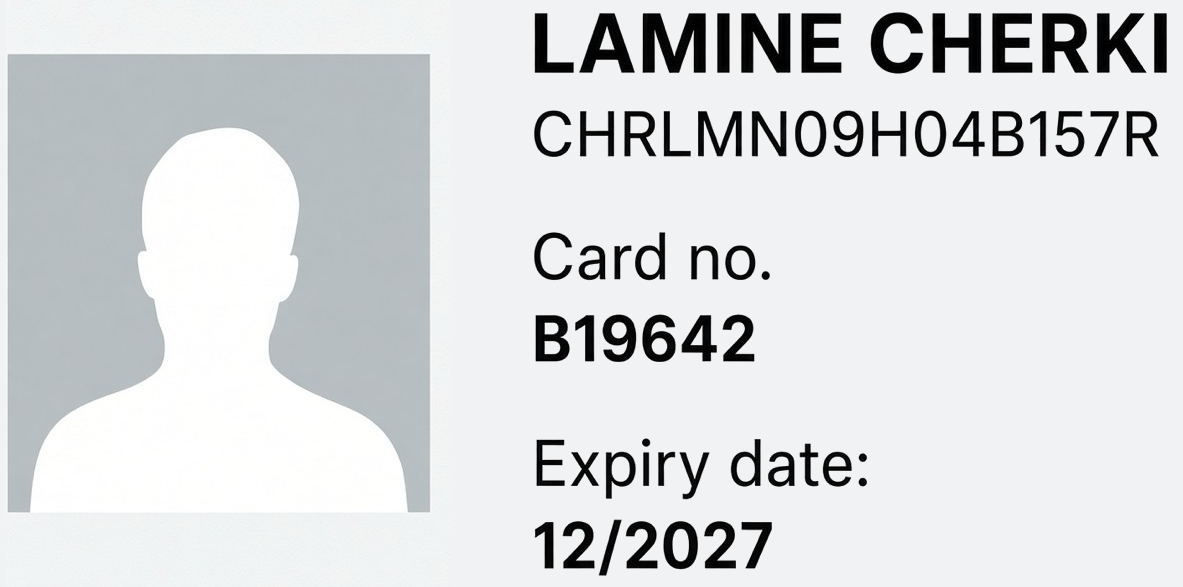
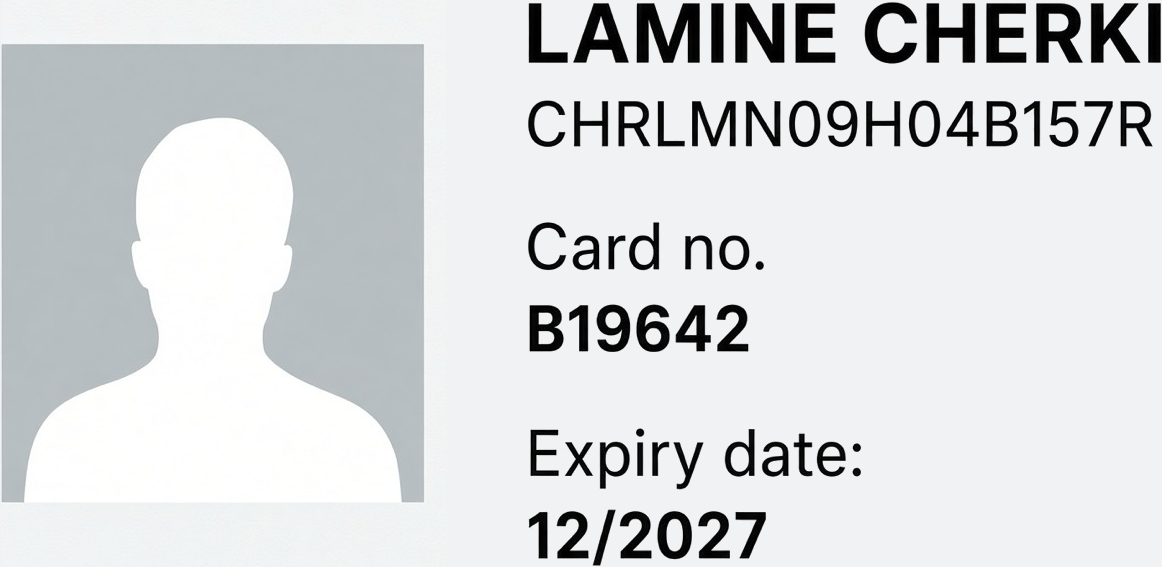
Show the Card info screenshot at native compact size
Keep the provided crop, scaled down so the photo matches
the original accordion instead of filling the card.

diff --git a/src/components/ticket-view.tsx b/src/components/ticket-view.tsx
@@ -1,7 +1,6 @@
 import { useState } from "react";
 import { ArrivaLogo } from "@/components/arriva-logo";
 import { AppHeader } from "@/components/app-header";
-import { IdSilhouette } from "@/components/id-silhouette";
 import { PhoneFrame } from "@/components/phone-frame";
 import { QrBlock } from "@/components/qr-block";
 import { QrOverlay } from "@/components/qr-overlay";
@@ -9,7 +8,7 @@ import { ScallopWave } from "@/components/scallop-wave";
 import { SectionAccordion } from "@/components/section-accordion";
 import { CardInfoIcon, PlaneIcon, ValidationIcon } from "@/components/ticket-icons";
 import { TransferSheet } from "@/components/transfer-sheet";
-import { productTitleSrc } from "@/lib/img";
+import { productTitleSrc, cardHolderSrc } from "@/lib/img";
 import { TICKET } from "@/lib/ticket-data";
 
 export function TicketView() {
@@ -52,29 +51,12 @@ export function TicketView() {
               onToggle={() => setCardOpen((v) => !v)}
               icon={<CardInfoIcon className="size-[18px]" />}
             >
-              <div className="flex items-start gap-3 pb-8 pt-1">
-                <IdSilhouette className="size-[72px] shrink-0 rounded-[2px]" />
-                <div className="min-w-0 flex-1">
-                  <p className="text-[16px] font-bold leading-[20px] text-black">
-                    {TICKET.holder.displayName}
-                  </p>
-                  <p className="mt-0.5 text-[13px] leading-[17px] text-black">
-                    {TICKET.holder.fiscalCode}
-                  </p>
-                  <p className="mt-2 text-[13px] leading-[17px] text-black">
-                    Card no.
-                  </p>
-                  <p className="text-[16px] font-bold leading-[20px] text-black">
-                    {TICKET.holder.cardNo}
-                  </p>
-                  <p className="mt-2 text-[13px] leading-[17px] text-black">
-                    Expiry date:
-                  </p>
-                  <p className="text-[16px] font-bold leading-[20px] text-black">
-                    {TICKET.holder.expiry}
-                  </p>
-                </div>
-              </div>
+              <img
+                src={cardHolderSrc}
+                alt="LAMINE CHERKI. CHRLMN09H04B157R. Card no. B19642. Expiry date: 12/2027"
+                className="mb-6 w-[76%] max-w-[248px] select-none"
+                draggable={false}
+              />
             </SectionAccordion>
 
             <SectionAccordion
